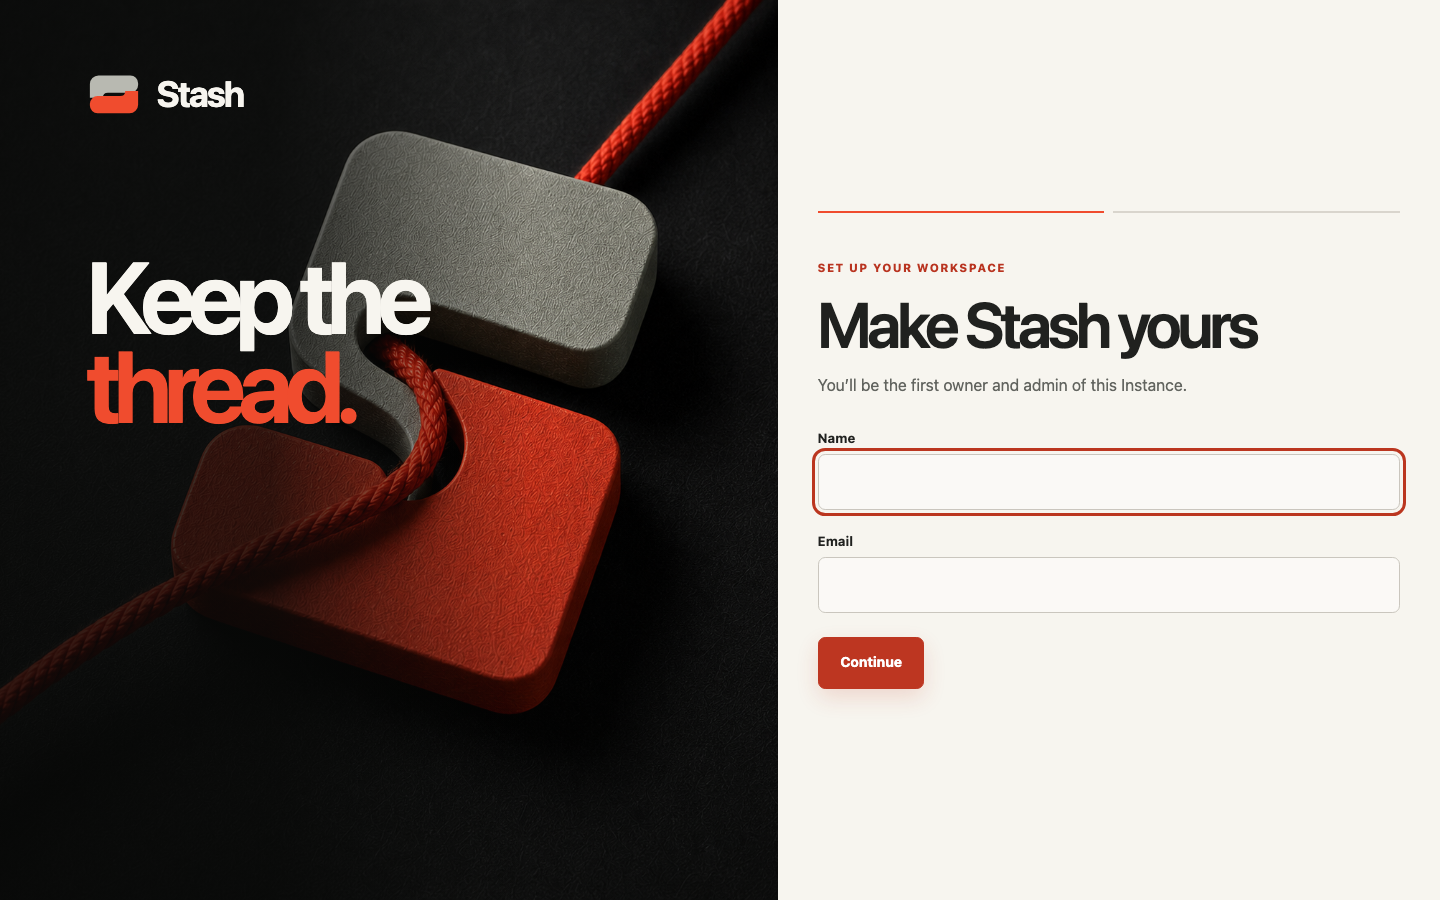
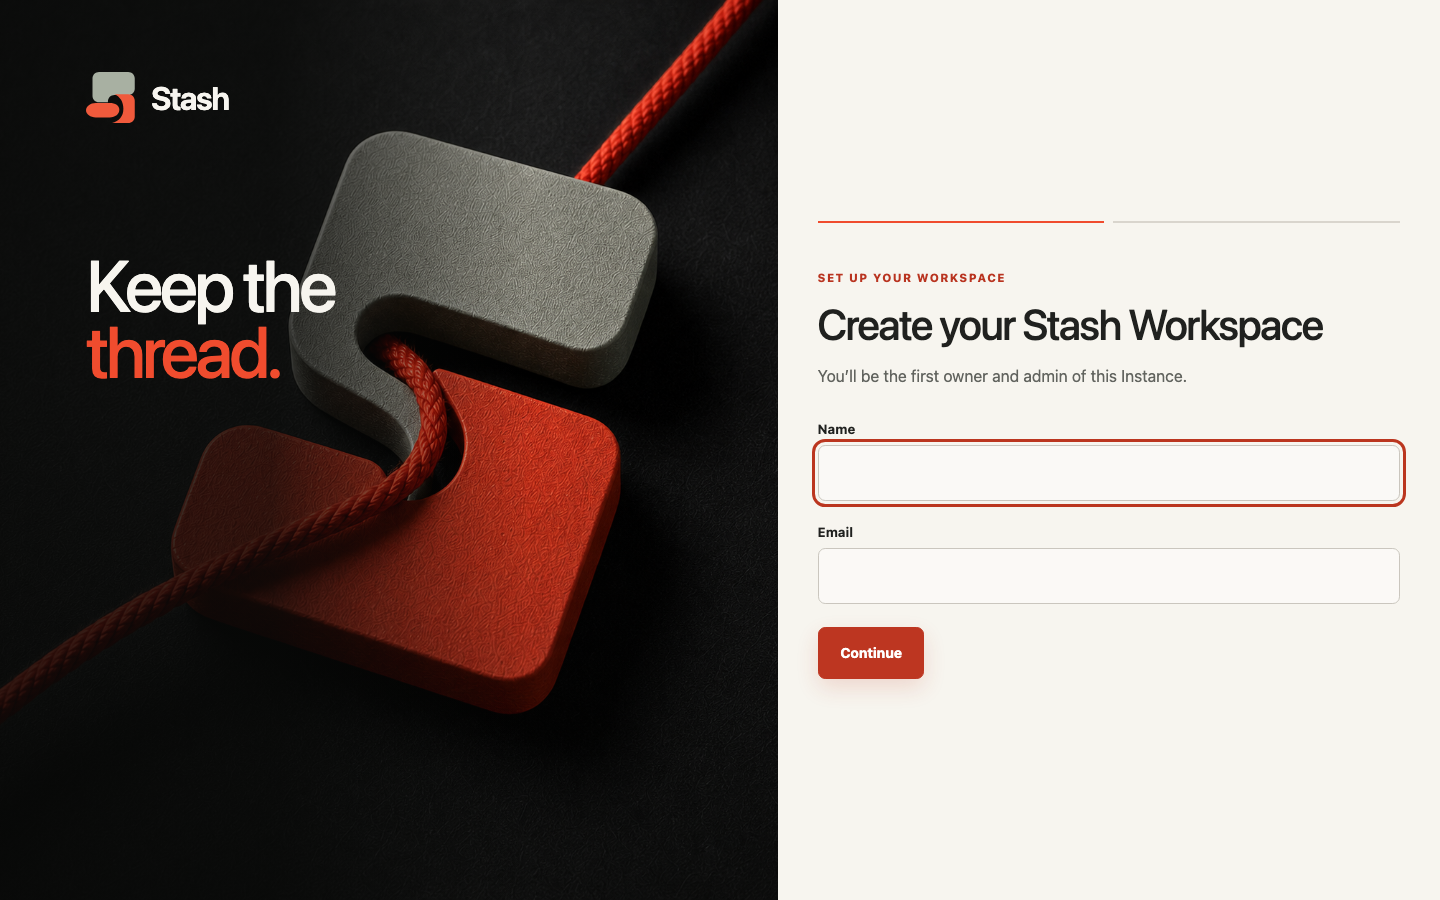
fix(web): align setup with approved direction

diff --git a/apps/web/src/identity-access/setup-page.module.css b/apps/web/src/identity-access/setup-page.module.css
@@ -3,12 +3,10 @@
 .introduction { position:relative; min-height:100dvh; overflow:hidden; isolation:isolate; color:#f7f5ef; background:#111210; }
 .introduction::after { content:""; position:absolute; inset:0; z-index:-1; background:linear-gradient(90deg,rgb(8 9 8 / 78%) 0 35%,transparent 68%),linear-gradient(0deg,rgb(8 9 8 / 36%),transparent 55%); }
 .artwork { position:absolute; inset:0; z-index:-2; width:100%; height:100%; object-fit:cover; object-position:center; }
-.brand { position:absolute; top:clamp(2rem,5vw,4.5rem); left:clamp(2rem,6vw,6.5rem); display:flex; align-items:center; gap:.9rem; }
-.brand strong { color:#f7f5ef; font:700 clamp(1.8rem,2.5vw,2.8rem)/1 var(--stash-font-sans); letter-spacing:-.055em; }
-.brandMark { width:3.5rem; height:2.8rem; overflow:visible; }
-.brandMark path:first-child { fill:#b8b9b1; }
-.brandMark path:last-child { fill:var(--stash-color-accent); }
-.introduction h1 { position:absolute; z-index:1; left:clamp(2rem,6vw,6.5rem); top:clamp(12rem,28vh,20rem); max-width:37rem; margin:0; color:#f7f5ef; font:650 clamp(4rem,7vw,7.4rem)/.88 var(--stash-font-display); letter-spacing:-.075em; }
+.brand { position:absolute; top:clamp(2rem,5vw,4.5rem); left:clamp(2rem,6vw,6.5rem); display:flex; align-items:center; gap:.85rem; }
+.brandMark { display:block; width:3.2rem; height:3.2rem; object-fit:contain; }
+.brand strong { color:#f7f5ef; font:650 2rem/1 var(--stash-font-sans); letter-spacing:-.045em; }
+.introduction h1 { position:absolute; z-index:1; left:clamp(2rem,6vw,6.5rem); top:clamp(12rem,28vh,20rem); max-width:23rem; margin:0; color:#f7f5ef; font:480 clamp(3.7rem,5vw,5rem)/.92 var(--stash-font-display); letter-spacing:-.045em; }
 .introduction h1 span { color:var(--stash-color-accent); }
 .panel { min-height:100dvh; display:grid; align-content:center; width:min(100% - 5rem,38rem); margin-inline:auto; padding:clamp(3rem,7vw,7rem) 0; }
 .mobileBrand { display:none; }
@@ -17,7 +15,7 @@
 .progress .active,.progress .complete { background:var(--stash-color-accent); }
 .form { display:grid; gap:1.45rem; }
 .stepName { margin:0 0 1.2rem; color:#b93420; font-size:.72rem; font-weight:800; letter-spacing:.12em; text-transform:uppercase; }
-.form h2 { max-width:35rem; margin:0; font:600 clamp(2.5rem,4.4vw,4.2rem)/.97 var(--stash-font-display); letter-spacing:-.06em; text-wrap:balance; }
+.form h2 { max-width:35rem; margin:0; font:480 clamp(2.25rem,3vw,2.65rem)/1.02 var(--stash-font-display); letter-spacing:-.035em; text-wrap:balance; }
 .form > div:first-child > p:last-child { margin:1.1rem 0 .55rem; color:var(--stash-color-muted); font-size:1rem; line-height:1.6; }
 .form label { display:grid; gap:.5rem; color:var(--stash-color-ink); font-size:.82rem; font-weight:700; }
 .form input { min-height:3.5rem; width:100%; padding:.85rem 1rem; color:var(--stash-color-ink); background:rgb(255 255 255 / 44%); border:1px solid #cac6be; border-radius:.45rem; font:500 1rem/1.2 var(--stash-font-sans); transition:border-color .16s ease,box-shadow .16s ease,background .16s ease; }
@@ -39,16 +37,16 @@
   .introduction::after { background:linear-gradient(90deg,rgb(8 9 8 / 74%),rgb(8 9 8 / 12%)); }
   .artwork { object-position:61% 48%; }
   .brand { top:max(1.5rem,env(safe-area-inset-top)); left:max(1.5rem,env(safe-area-inset-left)); }
-  .brandMark { width:2.7rem; height:2.2rem; }
+  .brandMark { width:2.65rem; height:2.65rem; }
   .brand strong { font-size:1.65rem; }
-  .introduction h1 { left:1.5rem; top:auto; bottom:1.6rem; font-size:clamp(2.8rem,11vw,4.4rem); }
+  .introduction h1 { left:1.5rem; top:auto; bottom:1.6rem; font-size:clamp(2.8rem,9vw,4rem); }
   .panel { min-height:calc(100dvh - 13rem); width:min(100% - 3rem,38rem); padding:3.5rem 0; }
 }
 @media (max-width:560px) {
   .introduction { min-height:10.5rem; }
   .introduction h1 { left:max(1.5rem,env(safe-area-inset-left)); bottom:.85rem; font-size:2.15rem; line-height:.83; }
   .brand { top:max(.8rem,env(safe-area-inset-top)); transform:none; }
-  .brandMark { width:2rem; height:1.65rem; }
+  .brandMark { width:2rem; height:2rem; }
   .brand strong { font-size:1.3rem; }
   .panel { min-height:calc(100dvh - 10.5rem); width:min(100% - 2rem,34rem); padding:2.5rem 0 max(2.5rem,env(safe-area-inset-bottom)); align-content:start; }
   .mobileBrand { display:block; margin-bottom:1rem; color:var(--stash-color-muted); font-size:.76rem; font-weight:700; text-align:right; }

diff --git a/apps/web/src/identity-access/setup-page.tsx b/apps/web/src/identity-access/setup-page.tsx
@@ -70,10 +70,7 @@ export function SetupPage({ state, fetcher = fetch, onComplete = defaultCompleti
     <div className={styles.layout}>
       <section className={styles.introduction} aria-labelledby="setup-title">
         <div className={`${styles.brand} ${styles.reveal}`}>
-          <svg className={styles.brandMark} viewBox="0 0 64 52" aria-hidden="true">
-            <path d="M14 4h37a9 9 0 0 1 9 9v2a9 9 0 0 1-9 9H25c-4 0-6 2-6 6H4V14A10 10 0 0 1 14 4Z" />
-            <path d="M50 48H13a9 9 0 0 1-9-9v-2a9 9 0 0 1 9-9h26c4 0 6-2 6-6h15v16a10 10 0 0 1-10 10Z" />
-          </svg>
+          <img className={styles.brandMark} src="/assets/stash-logo-mark-temporary.svg" alt="" />
           <strong>Stash</strong>
         </div>
         <h1 aria-label="Keep the thread." className={styles.reveal} id="setup-title">Keep the<br /><span>thread.</span></h1>
@@ -85,7 +82,7 @@ export function SetupPage({ state, fetcher = fetch, onComplete = defaultCompleti
           <span className={step === "identity" ? styles.active : styles.complete} /><span className={step === "workspace" ? styles.active : ""} />
         </div>
         {step === "identity" ? <form className={styles.form} onSubmit={(event) => { event.preventDefault(); setStep("workspace"); }}>
-          <div className={styles.reveal}><p className={styles.stepName}>Set up your Workspace</p><h2 id="form-title">Make Stash yours</h2><p>You’ll be the first owner and admin of this Instance.</p></div>
+          <div className={styles.reveal}><p className={styles.stepName}>Set up your Workspace</p><h2 id="form-title">Create your Stash Workspace</h2><p>You’ll be the first owner and admin of this Instance.</p></div>
           <label className={styles.reveal}>Name<input aria-label="Name" autoComplete="name" autoFocus maxLength={200} required value={name} onChange={(event) => setName(event.target.value)} /></label>
           <label className={styles.reveal}>Email<input aria-label="Email" autoComplete="email" maxLength={320} required type="email" value={email} onChange={(event) => setEmail(event.target.value)} /></label>
           <button className={`${styles.primary} ${styles.reveal}`} type="submit">Continue</button>
